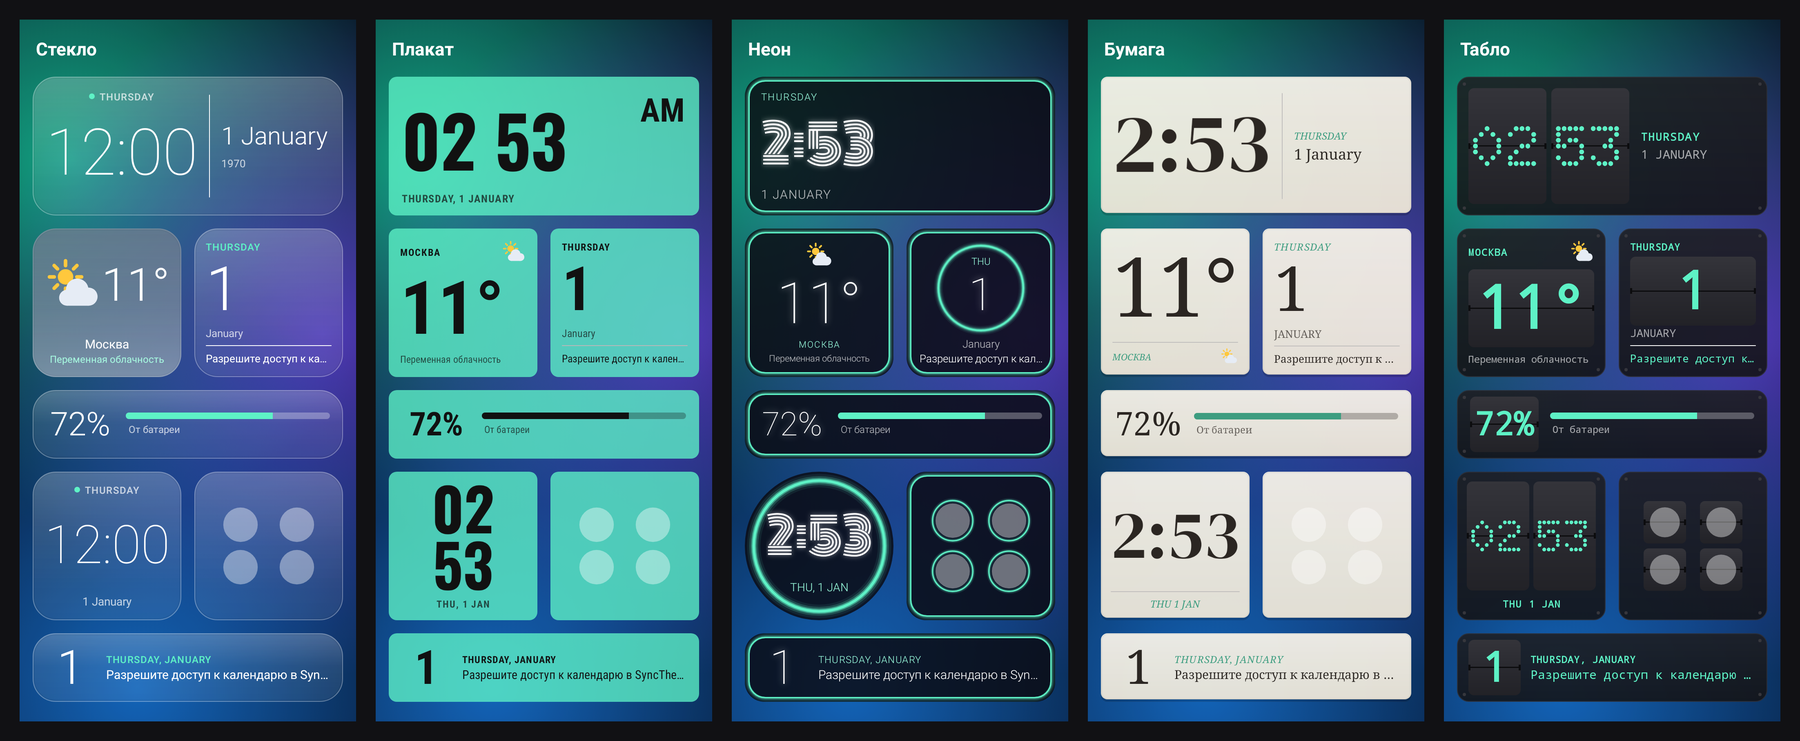
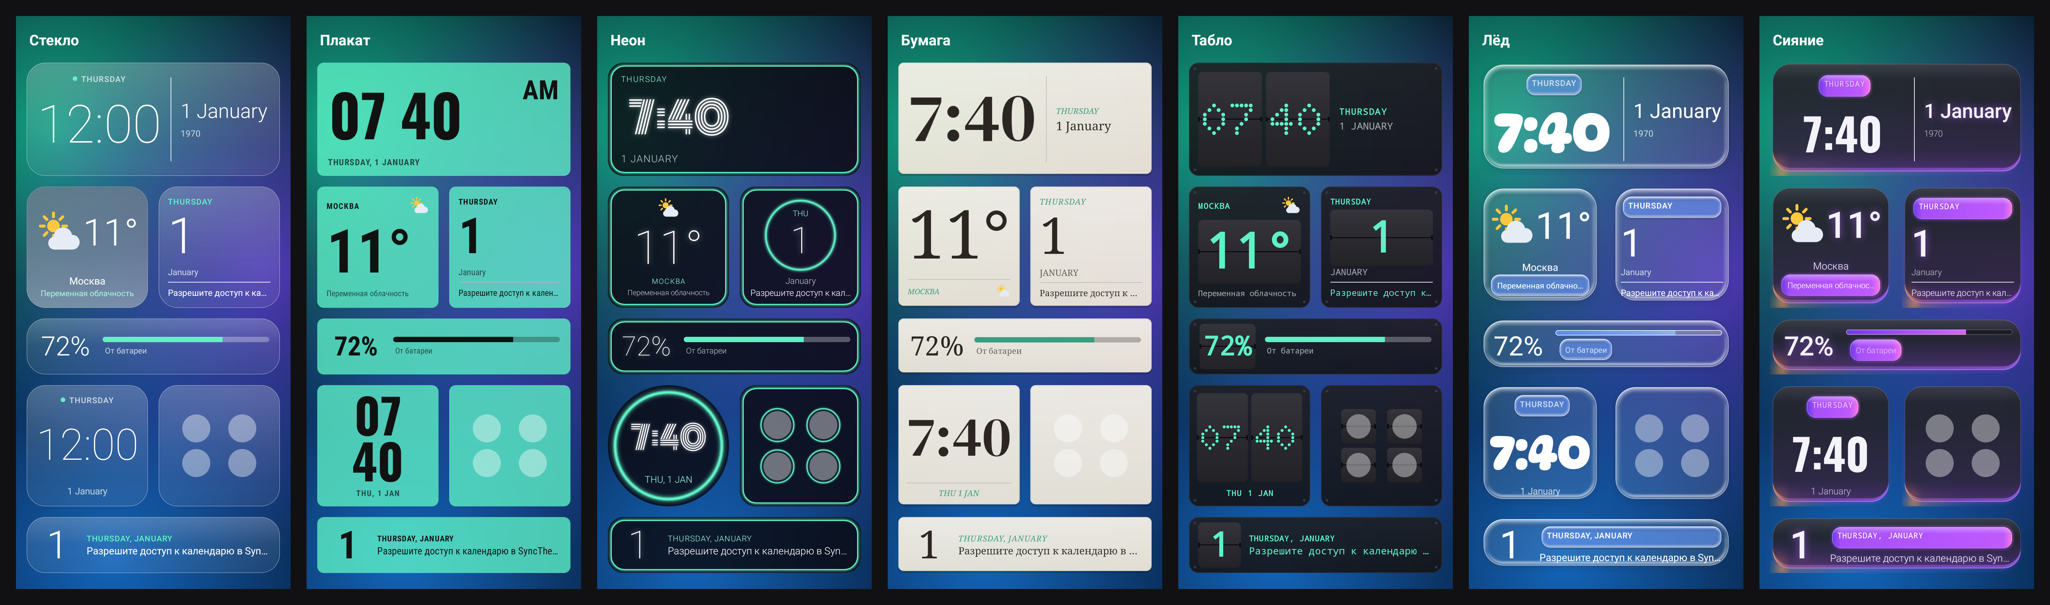
1.25.0: widget styles «Лёд» and «Сияние»
Claude-Session: https://claude.ai/code/session_012dJo64Hf1JFzE4WZ9D7xEY

diff --git a/README.md b/README.md
@@ -24,7 +24,7 @@
 | Картинка из Pinterest или браузера | «Поделиться» → «Обои в SyncTheme»: картинка сразу становится обоями в редакторе, в галерею телефона её сохранять не нужно |
 | Расположение | часы на обоях, время на циферблате и само фото двигаются пальцем, размер — щипком |
 | Экран блокировки | те же обои или отдельные (свой фон, фото, затемнение); по желанию — часы SyncTheme за объектом фото, как на рабочем столе |
-| Виджеты | Часы, Календарь, Погода, Батарея и Приложения — в пяти непохожих стилях: «Стекло», «Плакат», «Неон», «Бумага» и «Табло»; у часов — шесть шрифтов цифр разной формы. Любая форма и размер от 1×1 до 4×4 и столбиков 1×5: квадрат, столбик, высокий, полоска, широкий — у каждой своя раскладка. Нажатие открывает нужное приложение. У погоды — небо под текущую погоду и полоски «мин–макс» на 5 дней, у часов — небо по времени суток, у батареи — цвет по состоянию |
+| Виджеты | Часы, Календарь, Погода, Батарея и Приложения — в семи непохожих стилях: «Стекло», «Плакат», «Неон», «Бумага», «Табло», «Лёд» и «Сияние»; у часов — шесть шрифтов цифр разной формы. Любая форма и размер от 1×1 до 4×4 и столбиков 1×5: квадрат, столбик, высокий, полоска, широкий — у каждой своя раскладка. Нажатие открывает нужное приложение. У погоды — небо под текущую погоду и полоски «мин–макс» на 5 дней, у часов — небо по времени суток, у батареи — цвет по состоянию |
 | Папка приложений | виджет «Приложения» — спокойный значок папки или невидимое место на рабочем столе. Нажатие раскрывает до 12 приложений вдоль линии: готовой («Дуга», «Столбик», «Строка», «Волна», «Кольцо», «Сетка») или своей, нарисованной поверх рабочего стола: пальцем (линия сама становится плавной), ровной дугой или прямой — и поправленной за точки. 5 анимаций, фон и затемнение — по галочкам |
 | Циферблат | 15 стилей, из них 12 «живых»: «Барабан», «Колонки», «Планеты», «Матрица», «Заливка», «Диагональ», «Крупно», «Орбита», «Неон», «Облако», «Стекло», «Минимал». Шесть шрифтов цифр. По умолчанию повторяет телефон; можно настроить отдельно. У каждого стиля свой контрастный вид Always-On |
 | Эффект глубины | главный объект фото (человек, питомец, гора) целиком закрывает цифры — на циферблате, в «Часах на обоях» и на экране блокировки, одинаково на любом телефоне. Объект можно обвести пальцем — границы телефон найдёт сам |
@@ -33,7 +33,7 @@
 | Устройства | по умолчанию — только телефон. По желанию и в любом количестве: часы на Wear OS 6+ (циферблат в цветах темы), планшеты и телефоны (та же тема по Wi‑Fi), телевизоры с Google TV (заставка в цветах темы) |
 | Оформление приложения | «Стекло», «Экспрессив» или «Неон»; светлое, тёмное или как в системе. Акцент всегда берётся из обоев |
 
-<img src="docs/widgets.png" width="900" alt="Пять стилей виджетов: Стекло, Плакат, Неон, Бумага, Табло">
+<img src="docs/widgets.png" width="900" alt="Семь стилей виджетов: Стекло, Плакат, Неон, Бумага, Табло, Лёд, Сияние">
 
 <img src="docs/widget-shapes.png" width="900" alt="Один виджет в разных формах: столбики, квадраты, полоски, широкий и большой">
 
@@ -180,6 +180,8 @@
   - «Неон» — светящийся контур и цифры на чёрном;
   - «Бумага» — кремовый лист с тенью, буквы с засечками, чернила;
   - «Табло» — графитовая панель, числа на перекидных плашках, как на вокзальном табло.
+  - «Лёд» — жидкое стекло: прозрачная капсула с толстой объёмной кромкой, бликом и мягкой тенью, подписи на голубом стекле.
+  - «Сияние» — тёмная панель с толщиной, сквозь которую пробивается фиолетовый свет, подписи на светящихся фиолетово-розовых капсулах.
   Виджеты прошлых версий сами переходят на самый похожий из новых стилей.
 - **Шрифт цифр** у часов — шесть разных по форме: узкий гротеск, антиква с засечками, рукопись, точки (LED-матрица), пузыри и ретро-линии. «Как в стиле» — шрифт, задуманный для стиля.
 - **Размер и форма**: растяните виджет на рабочем столе — он покажет больше. Пример с погодой: 1×1 — значок и температура, 2×2 — ещё город, 4×2 — прогноз на 5 часов, 4×4 — ещё прогноз на 5 дней. Часы в большом размере показывают дату и следующий будильник, календарь — события и месяц, батарея — время до полной зарядки и температуру.
@@ -200,7 +202,7 @@
 
   **Галочки**: «Подписи под значками», «Фон и контур папки» (у «Сетки») и «Затемнять рабочий стол» (затемнение и размытие за папкой). Фон и затемнение по умолчанию выключены — значки лежат прямо на рабочем столе, подписи с тенью читаются на любых обоях.
 
-  Нажатие на приложение открывает его, нажатие мимо или «Назад» — сворачивает папку обратно в виджет. Цвета и форма значков — как у стиля виджета: «Стекло», «Плакат», «Неон», «Бумага», «Табло».
+  Нажатие на приложение открывает его, нажатие мимо или «Назад» — сворачивает папку обратно в виджет. Цвета и форма значков — как у стиля виджета: «Стекло», «Плакат», «Неон», «Бумага», «Табло», «Лёд», «Сияние».
 
   <img src="docs/folder-icons.png" width="600" alt="Значок папки в шести стилях">
 - **Небо.** У погоды фон — небо под текущую погоду: ясно, облачно, дождь, снег, гроза, туман, днём и ночью (переключатель «Фон по погоде»). У часов — «Небо по времени суток»: рассвет, день, закат, вечер и ночь сменяются сами. Текст на небе светлый. У «Неона» вместо неба своё свечение.
